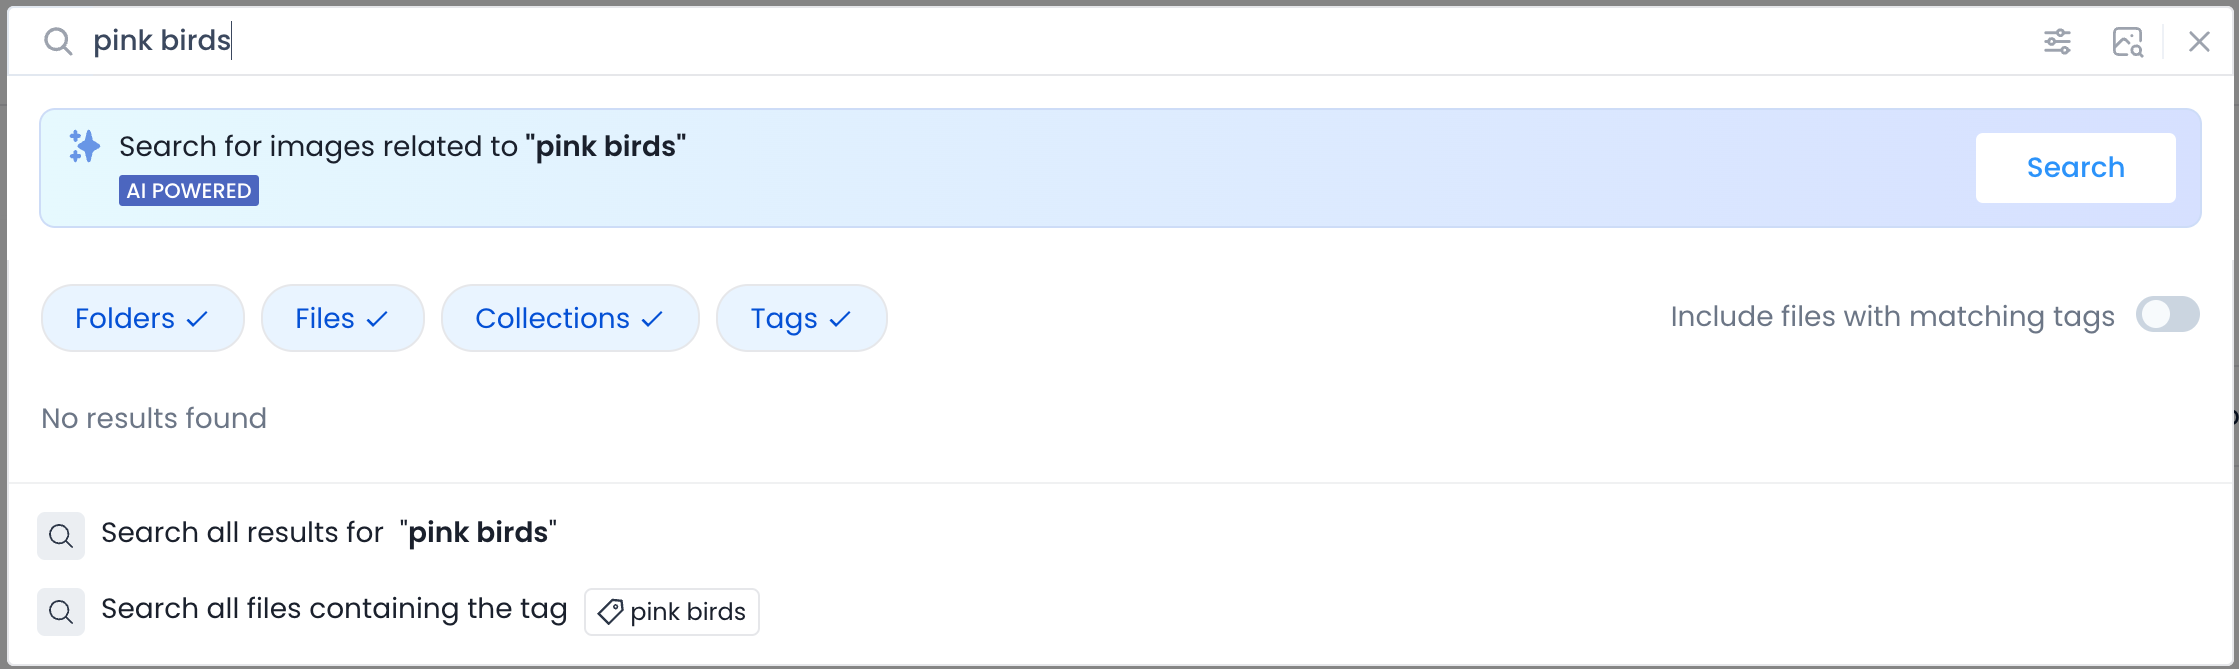
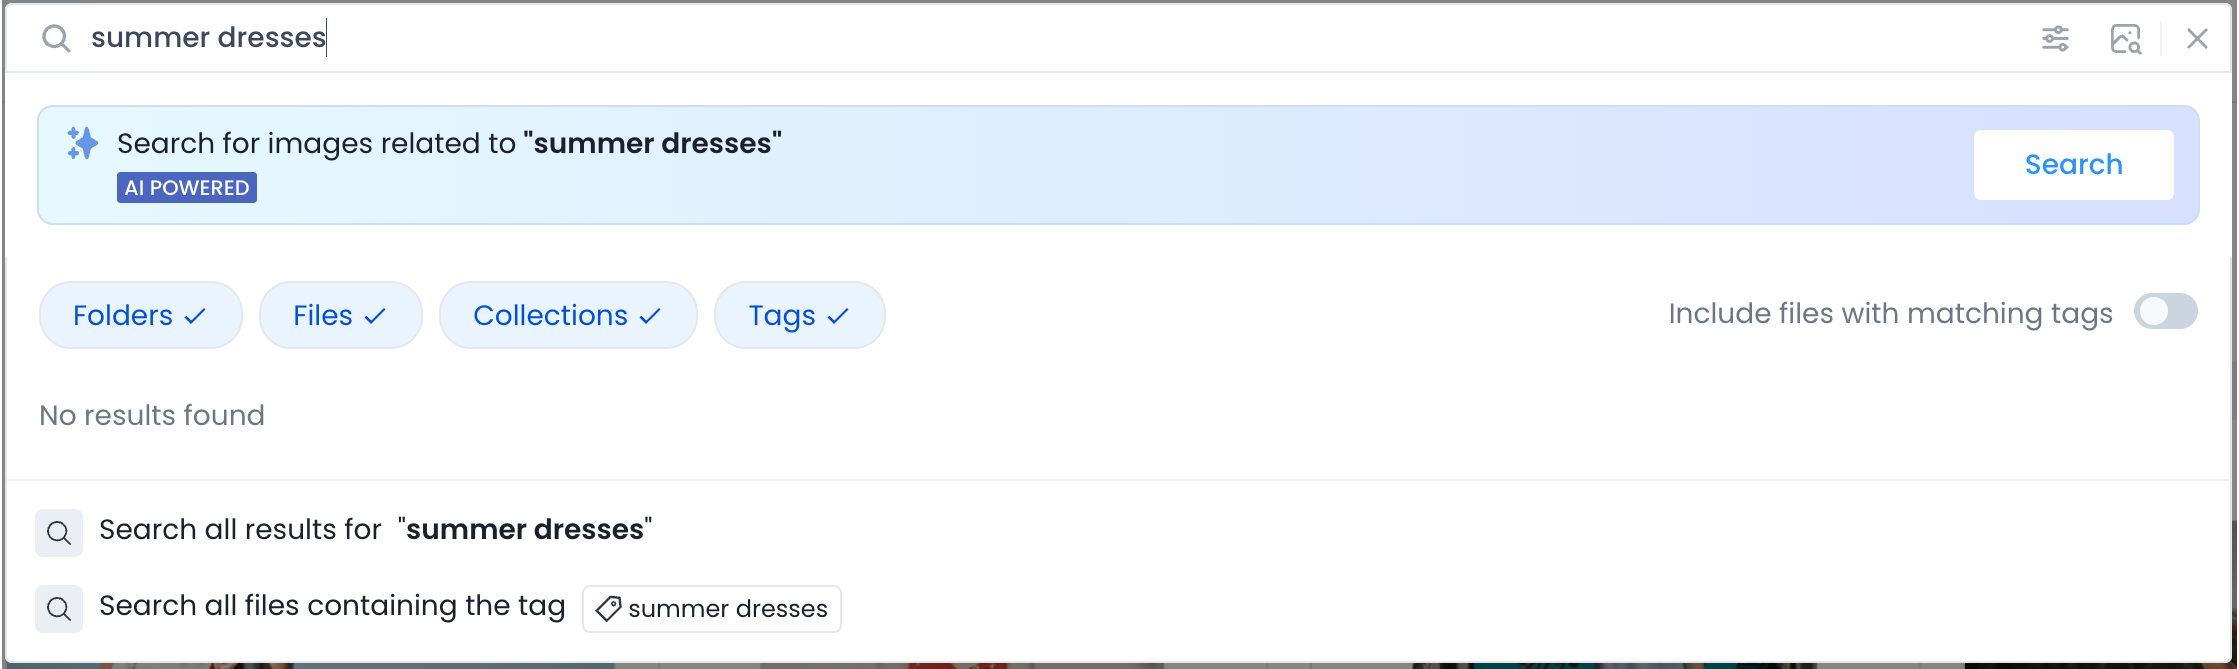
docs(IK-888): visual-search updated

diff --git a/features/visual-search.md b/features/visual-search.md
@@ -21,17 +21,17 @@ By searching visually rather than by name or metadata, you can:
 You can perform visual search from the dashboard either by text or by image:
 
 *   **Searching by Text**: You can type in a word or a phrase to find images that visually match it.\
-    For example, you can type in `pink birds`; all the images related to `pink birds` will be retrieved from your media library.\
+    For example, you can type in `summer dresses`; all the images related to `summer dresses` will be retrieved from your media library.\
 
 
-    <figure><img src="../.gitbook/assets/text_search.png" alt=""><figcaption></figcaption></figure>
+    <figure><img src="../.gitbook/assets/visual-search/text_search.png" alt=""><figcaption></figcaption></figure>
 
     <figure><img src="../.gitbook/assets/visual-search/text_search_results.png" alt=""><figcaption></figcaption></figure>
 *   **Searching by Image**: You can find matches based on the image you upload.\
 
     <figure><img src="../.gitbook/assets/visual-search/search_by_image.png" alt=""><figcaption><p>Upload image or specify a URL</p></figcaption></figure>
 
-    For example, uploading the image from [this URL](https://ik.imagekit.io/pwliscd3n/photo-1491972690050-ba117db4dc09\_9\_0DBlXmS.jpeg) will retrieve images related to a woman wearing a red shirt with sunglasses.\
+    For example, uploading the image from [this URL](https://ik.imagekit.io/pwliscd3n/photo-1491972690050-ba117db4dc09_9_0DBlXmS.jpeg) will retrieve images related to a woman wearing a red shirt with sunglasses.\
 
 
     <figure><img src="../.gitbook/assets/visual-search/image_search_results.png" alt=""><figcaption></figcaption></figure>
@@ -42,12 +42,12 @@ You can perform visual search from the dashboard either by text or by image:
 
 
 
-    For example, entering [this URL](https://ik.imagekit.io/pwliscd3n/allison-huang-\_u8KhAZRGHs-unsplash\_rn6D9ksWC.jpg) in the input box will retrieve images related to a scenic view of a beach with a house.\
+    For example, entering [this URL](https://ik.imagekit.io/pwliscd3n/allison-huang-_u8KhAZRGHs-unsplash_rn6D9ksWC.jpg) in the input box will retrieve images related to a scenic view of a beach with a house.\
 
 
     <figure><img src="../.gitbook/assets/visual-search/image_url_search_results.png" alt=""><figcaption></figcaption></figure>
 
-## Finding Similar Images to assets uploaded in the Media Library
+## Finding similar images to assets uploaded in the Media Library
 
 Visual Search lets you easily and quickly identify duplicate assets or find similar images in your media library.\
 \
@@ -55,15 +55,15 @@ You can do this directly from the File Details page in the Media Library.
 
 <figure><img src="../.gitbook/assets/visual-search/file_details_page.png" alt=""><figcaption></figcaption></figure>
 
-Use the "Find Similar" button to execute a visual search using the image URL.
+Use the "Find similar" button to execute a visual search using the image URL.
 
 <figure><img src="../.gitbook/assets/visual-search/similar_image_search.png" alt=""><figcaption></figcaption></figure>
 
-The search results will include all images that match the context of the image you are trying to find similar ones to. As seen in the example above, the first couple of results will likely be duplicates.
+The search results will include all images that match the context of the image you are trying to find similar ones to.
+Any duplicate files will appear at the start of the search results.
 
 ## Limitations
 
-* Visual Search will only work on the following image types: JPEG, PNG, WebP, GIF, AVIF, and SVG.
-* Images larger than 25MB will not be included in the search results.
-* Images larger than 10MB cannot be uploaded for "Search by Image".\
-  However, you can run a search for images up to 25MB by searching by image URL.
+* Visual Search is compatible only with the following image formats: JPEG, PNG, WebP, GIF, AVIF, and SVG.
+* Images exceeding 25MB will not be included in the search results.
+* For the "Search by Image" feature, images larger than 10MB cannot be uploaded; however, you can search for images up to 25MB using the image URL.

diff --git a/media-library/overview/search-update-and-delete.md b/media-library/overview/search-update-and-delete.md
@@ -69,10 +69,12 @@ There are two places where you can add a new search query -
 
 ### Visual Search
 
-{% hint style="info" %}
-**Enterprise plan only**
 
-This feature is only available in custom enterprise pricing plans.
+{% hint style="info" %}
+**Note**
+
+This feature is only available on request for specific plans.\
+For more information, please contact the [support team](mailto:support@imagekit.io) or your ImageKit Customer Success Manager.
 {% endhint %}
 
 Visual search allows you to search for similar images based on visual content. Instead of relying on text-based keywords or metadata, you can search based on visual content like colors, shapes, textures and any other information that can be derived from the image itself.
